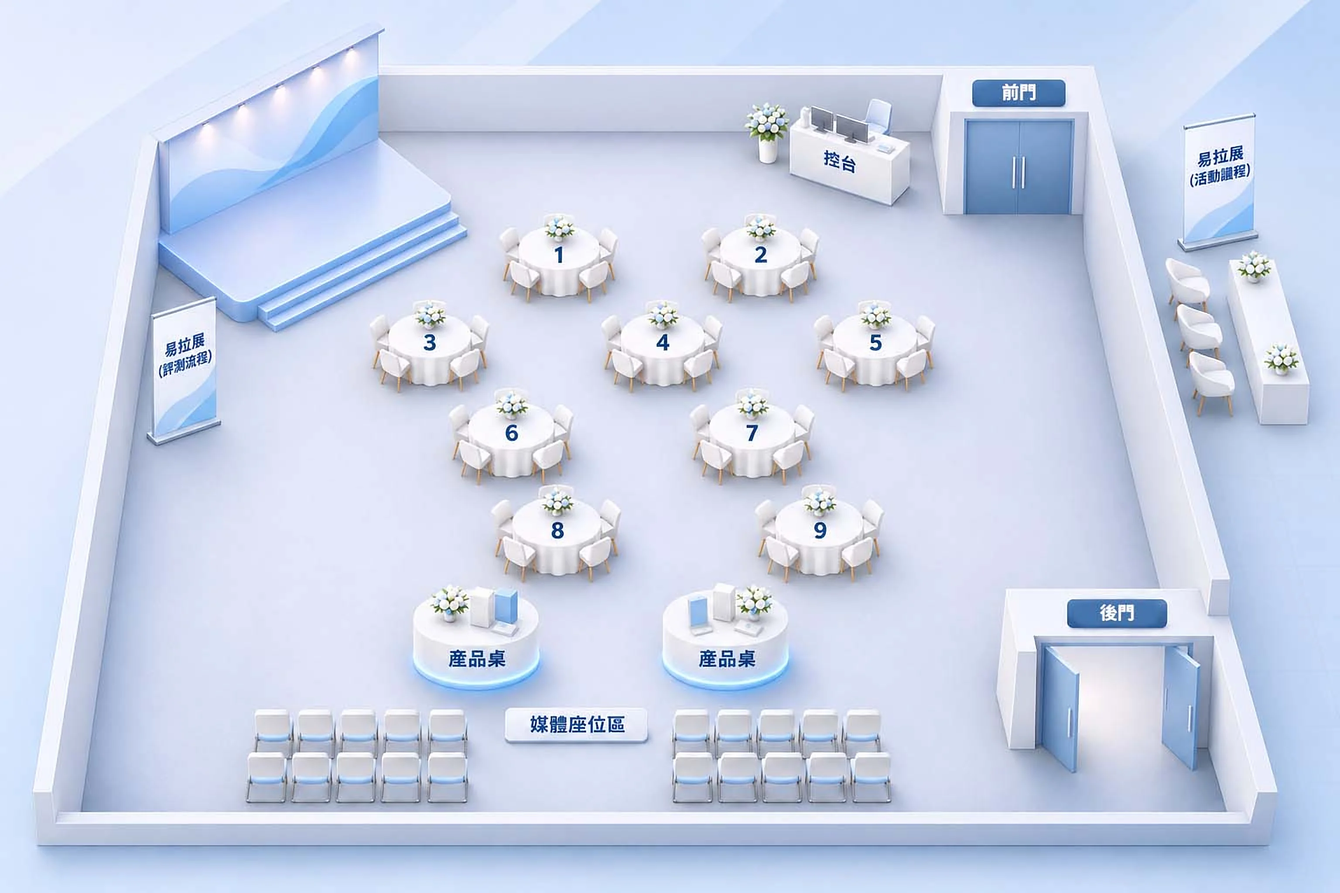
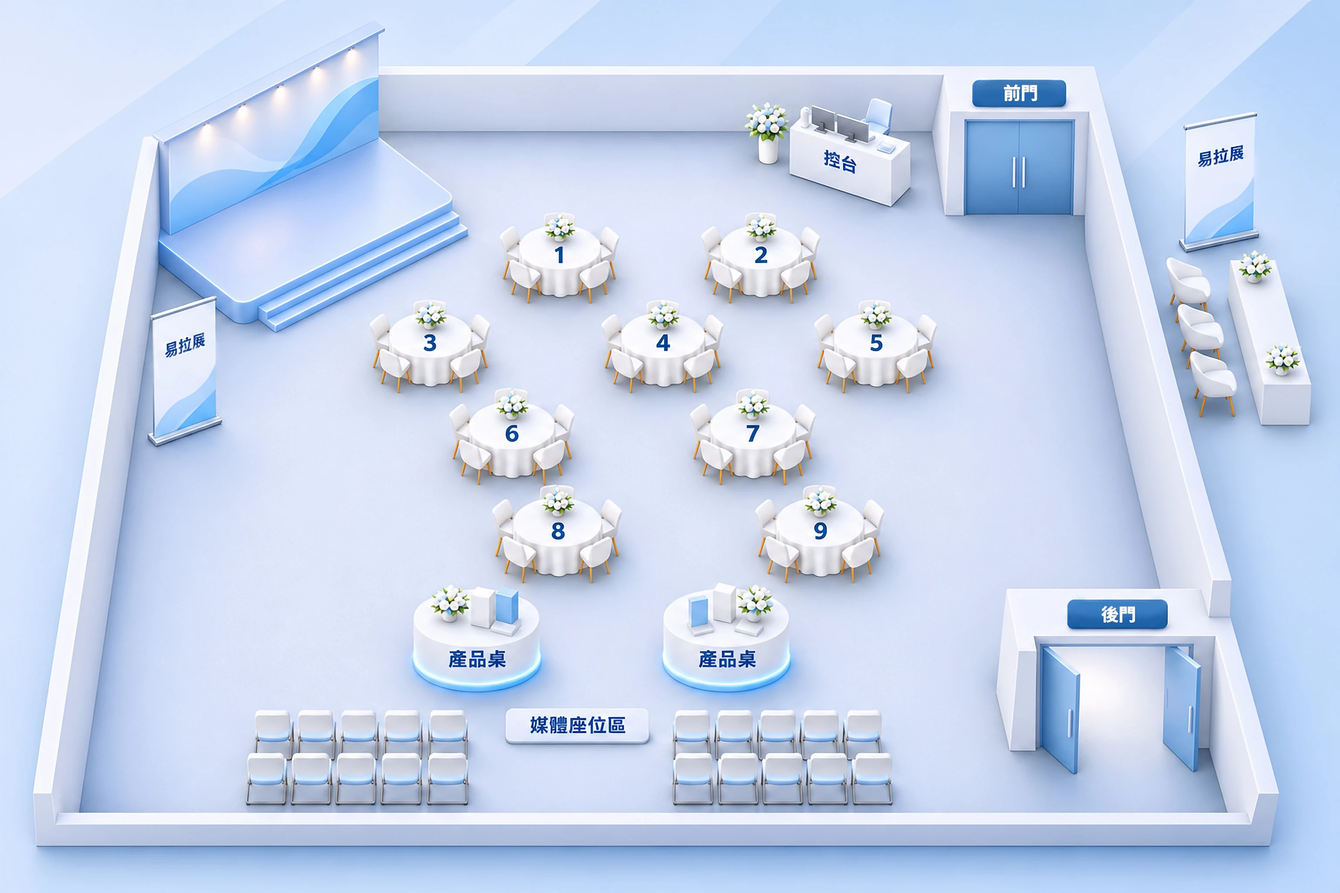
24 記者會：換新版高解析會場平面圖，微調熱點位置
Claude-Session: https://claude.ai/code/session_01GjEy689vh6dg91TD7dTNVD

diff --git a/works/work-24-expo.html b/works/work-24-expo.html
@@ -52,7 +52,7 @@
     </div>
     <div class="cs-cards"><article class="cs-card" data-tone="lime"><h2 class="cs-card__title">What I made<small>我的設計</small></h2><p class="cs-card__text">以「專業守護，全家安心」作為核心視覺概念，透過影像合成將醫師雙手、家庭人物與透明防護球體結合，象徵專業醫療為民眾健康提供守護。整體運用淺藍色調、柔和光暈與環繞式線條，營造純淨、安心且具科技感的視覺氛圍，搭配醫療圖示與認證徽章，強化計畫的專業形象與視覺辨識度。</p><svg class="cs-card__deco" viewBox="0 0 128 128" aria-hidden="true"><polygon points="64.0,2.0 74.2,19.2 90.9,8.1 92.7,28.0 112.5,25.3 105.4,44.0 124.4,50.2 110.0,64.0 124.4,77.8 105.4,84.0 112.5,102.7 92.7,100.0 90.9,119.9 74.2,108.8 64.0,126.0 53.8,108.8 37.1,119.9 35.3,100.0 15.5,102.7 22.6,84.0 3.6,77.8 18.0,64.0 3.6,50.2 22.6,44.0 15.5,25.3 35.3,28.0 37.1,8.1 53.8,19.2"/></svg></article><article class="cs-card" data-tone="pink"><h2 class="cs-card__title">What happened next<small>後續成果</small></h2><p class="cs-card__text">將醫療專業、科學認證與家庭健康等抽象理念轉化為直觀的視覺意象，兼顧現場品牌曝光、活動主題傳遞與多方合作單位的識別需求，建立具專業度與親和力的活動形象。</p><svg class="cs-card__deco" viewBox="0 0 128 128" aria-hidden="true"><polygon points="64.0,2.0 74.2,19.2 90.9,8.1 92.7,28.0 112.5,25.3 105.4,44.0 124.4,50.2 110.0,64.0 124.4,77.8 105.4,84.0 112.5,102.7 92.7,100.0 90.9,119.9 74.2,108.8 64.0,126.0 53.8,108.8 37.1,119.9 35.3,100.0 15.5,102.7 22.6,84.0 3.6,77.8 18.0,64.0 3.6,50.2 22.6,44.0 15.5,25.3 35.3,28.0 37.1,8.1 53.8,19.2"/></svg></article></div>
     <div class="cs-gallery"></div>
-    <section class="cs-sec"><header class="cs-sec__head"><p class="eyebrow">Key visual</p><h2 class="cs-sec__title">Press Backdrop<small>記者會背板</small></h2><p class="cs-sec__lead">以醫師雙手、家庭人物與透明防護球體合成主視覺，傳達「專業守護，全家安心」。</p></header><figure class="bq-fig ex-hero"><button type="button" class="ex-img" data-lb="prhero" aria-label="放大檢視：記者會背板提案"><picture><source srcset="../public/works/work-24-expo/web-backdrop.webp" type="image/webp"><img src="../public/works/work-24-expo/web-backdrop.jpg" width="2400" height="1189" alt="記者會背板提案：醫師雙手捧著透明球體，球內是三代同堂的家庭" loading="lazy" decoding="async"></picture></button><figcaption>✦ 背板提案｜W515 × H255 cm</figcaption></figure></section><section class="cs-sec"><header class="cs-sec__head"><p class="eyebrow">Venue plan</p><h2 class="cs-sec__title">Guest Journey<small>現場動線</small></h2></header><figure class="ob-hot pl-hot"><ul class="pl-legend"><li data-tone="yellow"><span></span>入場</li><li data-tone="cyan"><span></span>會場</li><li data-tone="pink"><span></span>台前合照</li><li data-tone="lime"><span></span>產品區</li></ul><div class="ob-hot__stage"><picture><source srcset="../public/works/work-24-expo/web-plan.webp?v=1123d" type="image/webp"><img src="../public/works/work-24-expo/web-plan.jpg?v=1123d" width="3072" height="2048" alt="記者會會場示意圖：左上舞台與背板，中間 9 張來賓圓桌，下方兩張產品桌與媒體座位區，右側為前後門、門外的易拉展與接待桌" loading="lazy" decoding="async"></picture><div class="ob-hs" style="--x:91%;--y:20%" data-pos="b r" data-tone="yellow"><button type="button" class="ob-hs__dot" aria-expanded="false" aria-describedby="prhs1"><span>1</span><span class="sr-only">易拉展：活動議程</span></button><div class="ob-hs__tip ex-tip" data-tone="yellow" id="prhs1" role="tooltip"><div class="ex-tip__imgs" style="--n:1"><button type="button" class="ex-tip__img" data-lb="prhs1" aria-label="放大檢視：易拉展：活動議程"><picture><source srcset="../public/works/work-24-expo/web-rollup-1.webp" type="image/webp"><img src="../public/works/work-24-expo/web-rollup-1.jpg" width="900" height="2001" alt="易拉展：活動議程" loading="lazy" decoding="async"></picture><span class="ex-tip__zoom" aria-hidden="true"></span></button></div><p class="eyebrow ob-hs__eb">Entrance</p><p class="ob-hs__t">易拉展：活動議程</p><p class="ob-hs__d">立在門外，來賓報到前就能先看到當天流程。</p><p class="ob-hs__s">入場</p></div></div><div class="ob-hs" style="--x:45.5%;--y:35%" data-pos="b" data-tone="cyan"><button type="button" class="ob-hs__dot" aria-expanded="false" aria-describedby="prhs2"><span>2</span><span class="sr-only">來賓桌卡</span></button><div class="ob-hs__tip ex-tip" data-tone="cyan" id="prhs2" role="tooltip"><div class="ex-tip__imgs" style="--n:2"><button type="button" class="ex-tip__img" data-lb="prhs2" aria-label="放大檢視：來賓桌卡"><picture><source srcset="../public/works/work-24-expo/web-guest.webp?v=1123d" type="image/webp"><img src="../public/works/work-24-expo/web-guest.jpg?v=1123d" width="1600" height="1021" alt="來賓桌卡" loading="lazy" decoding="async"></picture><span class="ex-tip__zoom" aria-hidden="true"></span></button><button type="button" class="ex-tip__img" data-lb="prhs2" aria-label="放大檢視：現場照片：來賓桌卡"><picture><source srcset="../public/works/work-24-expo/web-site-9.webp?v=1123d" type="image/webp"><img src="../public/works/work-24-expo/web-site-9.jpg?v=1123d" width="1400" height="933" alt="現場照片：來賓桌卡" loading="lazy" decoding="async"></picture><span class="ex-tip__zoom" aria-hidden="true"></span></button></div><p class="eyebrow ob-hs__eb">Guest Table</p><p class="ob-hs__t">來賓桌卡</p><p class="ob-hs__d">9 張圓桌上的來賓名牌，延續主視覺的雙手與家庭意象。</p><p class="ob-hs__s">會場</p></div></div><div class="ob-hs" style="--x:20%;--y:12%" data-pos="b l" data-tone="cyan"><button type="button" class="ob-hs__dot" aria-expanded="false" aria-describedby="prhs3"><span>3</span><span class="sr-only">記者會背板</span></button><div class="ob-hs__tip ex-tip" data-tone="cyan" id="prhs3" role="tooltip"><div class="ex-tip__imgs" style="--n:2"><button type="button" class="ex-tip__img" data-lb="prhs3" aria-label="放大檢視：記者會背板提案"><picture><source srcset="../public/works/work-24-expo/web-backdrop.webp" type="image/webp"><img src="../public/works/work-24-expo/web-backdrop.jpg" width="2400" height="1189" alt="記者會背板提案" loading="lazy" decoding="async"></picture><span class="ex-tip__zoom" aria-hidden="true"></span></button><button type="button" class="ex-tip__img" data-lb="prhs3" aria-label="放大檢視：現場照片：講者站在背板前發表"><picture><source srcset="../public/works/work-24-expo/web-site-1.webp?v=1123d" type="image/webp"><img src="../public/works/work-24-expo/web-site-1.jpg?v=1123d" width="1400" height="1084" alt="現場照片：講者站在背板前發表" loading="lazy" decoding="async"></picture><span class="ex-tip__zoom" aria-hidden="true"></span></button></div><p class="eyebrow ob-hs__eb">Backdrop</p><p class="ob-hs__t">記者會背板</p><p class="ob-hs__d">以「專業守護，全家安心」為主視覺的背板提案。</p><p class="ob-hs__s">會場｜提案版｜W515 × H255 cm</p></div></div><div class="ob-hs" style="--x:28%;--y:29%" data-pos="b" data-tone="pink"><button type="button" class="ob-hs__dot" aria-expanded="false" aria-describedby="prhs4"><span>4</span><span class="sr-only">拍照用手舉牌</span></button><div class="ob-hs__tip ex-tip" data-tone="pink" id="prhs4" role="tooltip"><div class="ex-tip__imgs" style="--n:3"><button type="button" class="ex-tip__img" data-lb="prhs4" aria-label="放大檢視：手舉牌：醫師專業推薦指標"><picture><source srcset="../public/works/work-24-expo/web-sign-1.webp" type="image/webp"><img src="../public/works/work-24-expo/web-sign-1.png" width="1000" height="572" alt="手舉牌：醫師專業推薦指標" loading="lazy" decoding="async"></picture><span class="ex-tip__zoom" aria-hidden="true"></span></button><button type="button" class="ex-tip__img" data-lb="prhs4" aria-label="放大檢視：手舉牌：醫師推薦健康關鍵"><picture><source srcset="../public/works/work-24-expo/web-sign-11.webp" type="image/webp"><img src="../public/works/work-24-expo/web-sign-11.png" width="1000" height="464" alt="手舉牌：醫師推薦健康關鍵" loading="lazy" decoding="async"></picture><span class="ex-tip__zoom" aria-hidden="true"></span></button><button type="button" class="ex-tip__img" data-lb="prhs4" aria-label="放大檢視：現場照片：台前手舉牌大合照"><picture><source srcset="../public/works/work-24-expo/web-site-10.webp?v=1123d" type="image/webp"><img src="../public/works/work-24-expo/web-site-10.jpg?v=1123d" width="1400" height="496" alt="現場照片：台前手舉牌大合照" loading="lazy" decoding="async"></picture><span class="ex-tip__zoom" aria-hidden="true"></span></button></div><p class="eyebrow ob-hs__eb">Photo Session</p><p class="ob-hs__t">拍照用手舉牌</p><p class="ob-hs__d">台前大合照時，來賓手舉的造型牌，共 11 款。</p><p class="ob-hs__s">台前合照｜11 款</p></div></div><div class="ob-hs" style="--x:35.5%;--y:66%" data-pos="t" data-tone="lime"><button type="button" class="ob-hs__dot" aria-expanded="false" aria-describedby="prhs5"><span>5</span><span class="sr-only">產品桌：桌卡＋三折 DM</span></button><div class="ob-hs__tip ex-tip" data-tone="lime" id="prhs5" role="tooltip"><div class="ex-tip__imgs" style="--n:3"><button type="button" class="ex-tip__img" data-lb="prhs5" aria-label="放大檢視：三折 DM 正面"><picture><source srcset="../public/works/work-24-expo/web-dm-1.webp" type="image/webp"><img src="../public/works/work-24-expo/web-dm-1.jpg" width="2400" height="763" alt="三折 DM 正面" loading="lazy" decoding="async"></picture><span class="ex-tip__zoom" aria-hidden="true"></span></button><button type="button" class="ex-tip__img" data-lb="prhs5" aria-label="放大檢視：三折 DM 背面"><picture><source srcset="../public/works/work-24-expo/web-dm-2.webp" type="image/webp"><img src="../public/works/work-24-expo/web-dm-2.jpg" width="2400" height="765" alt="三折 DM 背面" loading="lazy" decoding="async"></picture><span class="ex-tip__zoom" aria-hidden="true"></span></button><button type="button" class="ex-tip__img" data-lb="prhs5" aria-label="放大檢視：現場照片：產品桌上的桌卡與 DM"><picture><source srcset="../public/works/work-24-expo/web-site-8.webp?v=1123d" type="image/webp"><img src="../public/works/work-24-expo/web-site-8.jpg?v=1123d" width="1400" height="933" alt="現場照片：產品桌上的桌卡與 DM" loading="lazy" decoding="async"></picture><span class="ex-tip__zoom" aria-hidden="true"></span></button></div><p class="eyebrow ob-hs__eb">Product Table</p><p class="ob-hs__t">產品桌：桌卡＋三折 DM</p><p class="ob-hs__d">產品桌上的長者六力系列桌卡，一款產品一張；三折 DM 也放在這裡，讓來賓與媒體帶走。</p><p class="ob-hs__s">產品區｜桌卡 5 款・三折頁</p></div></div><div class="ob-hs" style="--x:14%;--y:41%" data-pos="b l" data-tone="lime"><button type="button" class="ob-hs__dot" aria-expanded="false" aria-describedby="prhs6"><span>6</span><span class="sr-only">易拉展：評測流程</span></button><div class="ob-hs__tip ex-tip" data-tone="lime" id="prhs6" role="tooltip"><div class="ex-tip__imgs" style="--n:2"><button type="button" class="ex-tip__img" data-lb="prhs6" aria-label="放大檢視：易拉展：評測流程"><picture><source srcset="../public/works/work-24-expo/web-rollup-2.webp" type="image/webp"><img src="../public/works/work-24-expo/web-rollup-2.jpg" width="900" height="1999" alt="易拉展：評測流程" loading="lazy" decoding="async"></picture><span class="ex-tip__zoom" aria-hidden="true"></span></button><button type="button" class="ex-tip__img" data-lb="prhs6" aria-label="放大檢視：現場照片：評測流程易拉展"><picture><source srcset="../public/works/work-24-expo/web-site-11.webp?v=1123d" type="image/webp"><img src="../public/works/work-24-expo/web-site-11.jpg?v=1123d" width="1400" height="2100" alt="現場照片：評測流程易拉展" loading="lazy" decoding="async"></picture><span class="ex-tip__zoom" aria-hidden="true"></span></button></div><p class="eyebrow ob-hs__eb">Roll-up</p><p class="ob-hs__t">易拉展：評測流程</p><p class="ob-hs__d">放在產品區旁，說明醫療專家品質評測的流程。</p><p class="ob-hs__s">產品區</p></div></div></div></figure></section><section class="cs-sec"><header class="cs-sec__head"><p class="eyebrow">On site</p><h2 class="cs-sec__title">Press Day<small>現場紀錄</small></h2><p class="cs-sec__lead">記者會當天：背板前的發表、手舉牌大合照、桌卡與 DM，以及媒體採訪。</p></header><figure class="bq-fig ex-hero pr-collage"><button type="button" class="ex-img" data-lb="prsite" aria-label="放大檢視：記者會現場紀錄"><picture><source srcset="../public/works/work-24-expo/web-collage.webp?v=1123d" type="image/webp"><img src="../public/works/work-24-expo/web-collage.jpg?v=1123d" width="1800" height="1818" alt="記者會現場照片拼貼：講者發表、來賓桌卡、DM、手舉牌大合照、產品桌卡、媒體採訪與評測流程易拉展" loading="lazy" decoding="async"></picture></button><figcaption>✦ 記者會現場紀錄</figcaption></figure></section>
+    <section class="cs-sec"><header class="cs-sec__head"><p class="eyebrow">Key visual</p><h2 class="cs-sec__title">Press Backdrop<small>記者會背板</small></h2><p class="cs-sec__lead">以醫師雙手、家庭人物與透明防護球體合成主視覺，傳達「專業守護，全家安心」。</p></header><figure class="bq-fig ex-hero"><button type="button" class="ex-img" data-lb="prhero" aria-label="放大檢視：記者會背板提案"><picture><source srcset="../public/works/work-24-expo/web-backdrop.webp" type="image/webp"><img src="../public/works/work-24-expo/web-backdrop.jpg" width="2400" height="1189" alt="記者會背板提案：醫師雙手捧著透明球體，球內是三代同堂的家庭" loading="lazy" decoding="async"></picture></button><figcaption>✦ 背板提案｜W515 × H255 cm</figcaption></figure></section><section class="cs-sec"><header class="cs-sec__head"><p class="eyebrow">Venue plan</p><h2 class="cs-sec__title">Guest Journey<small>現場動線</small></h2></header><figure class="ob-hot pl-hot"><ul class="pl-legend"><li data-tone="yellow"><span></span>入場</li><li data-tone="cyan"><span></span>會場</li><li data-tone="pink"><span></span>台前合照</li><li data-tone="lime"><span></span>產品區</li></ul><div class="ob-hot__stage"><picture><source srcset="../public/works/work-24-expo/web-plan.webp?v=202611232325" type="image/webp"><img src="../public/works/work-24-expo/web-plan.jpg?v=202611232325" width="3072" height="2048" alt="記者會會場示意圖：左上舞台與背板，中間 9 張來賓圓桌，下方兩張產品桌與媒體座位區，右側為前後門、門外的易拉展與接待桌" loading="lazy" decoding="async"></picture><div class="ob-hs" style="--x:91%;--y:26%" data-pos="b r" data-tone="yellow"><button type="button" class="ob-hs__dot" aria-expanded="false" aria-describedby="prhs1"><span>1</span><span class="sr-only">易拉展：活動議程</span></button><div class="ob-hs__tip ex-tip" data-tone="yellow" id="prhs1" role="tooltip"><div class="ex-tip__imgs" style="--n:1"><button type="button" class="ex-tip__img" data-lb="prhs1" aria-label="放大檢視：易拉展：活動議程"><picture><source srcset="../public/works/work-24-expo/web-rollup-1.webp" type="image/webp"><img src="../public/works/work-24-expo/web-rollup-1.jpg" width="900" height="2001" alt="易拉展：活動議程" loading="lazy" decoding="async"></picture><span class="ex-tip__zoom" aria-hidden="true"></span></button></div><p class="eyebrow ob-hs__eb">Entrance</p><p class="ob-hs__t">易拉展：活動議程</p><p class="ob-hs__d">立在門外，來賓報到前就能先看到當天流程。</p><p class="ob-hs__s">入場</p></div></div><div class="ob-hs" style="--x:46.5%;--y:36%" data-pos="b" data-tone="cyan"><button type="button" class="ob-hs__dot" aria-expanded="false" aria-describedby="prhs2"><span>2</span><span class="sr-only">來賓桌卡</span></button><div class="ob-hs__tip ex-tip" data-tone="cyan" id="prhs2" role="tooltip"><div class="ex-tip__imgs" style="--n:2"><button type="button" class="ex-tip__img" data-lb="prhs2" aria-label="放大檢視：來賓桌卡"><picture><source srcset="../public/works/work-24-expo/web-guest.webp" type="image/webp"><img src="../public/works/work-24-expo/web-guest.jpg" width="1600" height="1021" alt="來賓桌卡" loading="lazy" decoding="async"></picture><span class="ex-tip__zoom" aria-hidden="true"></span></button><button type="button" class="ex-tip__img" data-lb="prhs2" aria-label="放大檢視：現場照片：來賓桌卡"><picture><source srcset="../public/works/work-24-expo/web-site-9.webp" type="image/webp"><img src="../public/works/work-24-expo/web-site-9.jpg" width="1400" height="933" alt="現場照片：來賓桌卡" loading="lazy" decoding="async"></picture><span class="ex-tip__zoom" aria-hidden="true"></span></button></div><p class="eyebrow ob-hs__eb">Guest Table</p><p class="ob-hs__t">來賓桌卡</p><p class="ob-hs__d">9 張圓桌上的來賓名牌，延續主視覺的雙手與家庭意象。</p><p class="ob-hs__s">會場</p></div></div><div class="ob-hs" style="--x:20%;--y:12%" data-pos="b l" data-tone="cyan"><button type="button" class="ob-hs__dot" aria-expanded="false" aria-describedby="prhs3"><span>3</span><span class="sr-only">記者會背板</span></button><div class="ob-hs__tip ex-tip" data-tone="cyan" id="prhs3" role="tooltip"><div class="ex-tip__imgs" style="--n:2"><button type="button" class="ex-tip__img" data-lb="prhs3" aria-label="放大檢視：記者會背板提案"><picture><source srcset="../public/works/work-24-expo/web-backdrop.webp" type="image/webp"><img src="../public/works/work-24-expo/web-backdrop.jpg" width="2400" height="1189" alt="記者會背板提案" loading="lazy" decoding="async"></picture><span class="ex-tip__zoom" aria-hidden="true"></span></button><button type="button" class="ex-tip__img" data-lb="prhs3" aria-label="放大檢視：現場照片：講者站在背板前發表"><picture><source srcset="../public/works/work-24-expo/web-site-1.webp" type="image/webp"><img src="../public/works/work-24-expo/web-site-1.jpg" width="1400" height="1084" alt="現場照片：講者站在背板前發表" loading="lazy" decoding="async"></picture><span class="ex-tip__zoom" aria-hidden="true"></span></button></div><p class="eyebrow ob-hs__eb">Backdrop</p><p class="ob-hs__t">記者會背板</p><p class="ob-hs__d">以「專業守護，全家安心」為主視覺的背板提案。</p><p class="ob-hs__s">會場｜提案版｜W515 × H255 cm</p></div></div><div class="ob-hs" style="--x:29%;--y:31%" data-pos="b" data-tone="pink"><button type="button" class="ob-hs__dot" aria-expanded="false" aria-describedby="prhs4"><span>4</span><span class="sr-only">拍照用手舉牌</span></button><div class="ob-hs__tip ex-tip" data-tone="pink" id="prhs4" role="tooltip"><div class="ex-tip__imgs" style="--n:3"><button type="button" class="ex-tip__img" data-lb="prhs4" aria-label="放大檢視：手舉牌：醫師專業推薦指標"><picture><source srcset="../public/works/work-24-expo/web-sign-1.webp" type="image/webp"><img src="../public/works/work-24-expo/web-sign-1.png" width="1000" height="572" alt="手舉牌：醫師專業推薦指標" loading="lazy" decoding="async"></picture><span class="ex-tip__zoom" aria-hidden="true"></span></button><button type="button" class="ex-tip__img" data-lb="prhs4" aria-label="放大檢視：手舉牌：醫師推薦健康關鍵"><picture><source srcset="../public/works/work-24-expo/web-sign-11.webp" type="image/webp"><img src="../public/works/work-24-expo/web-sign-11.png" width="1000" height="464" alt="手舉牌：醫師推薦健康關鍵" loading="lazy" decoding="async"></picture><span class="ex-tip__zoom" aria-hidden="true"></span></button><button type="button" class="ex-tip__img" data-lb="prhs4" aria-label="放大檢視：現場照片：台前手舉牌大合照"><picture><source srcset="../public/works/work-24-expo/web-site-10.webp" type="image/webp"><img src="../public/works/work-24-expo/web-site-10.jpg" width="1400" height="496" alt="現場照片：台前手舉牌大合照" loading="lazy" decoding="async"></picture><span class="ex-tip__zoom" aria-hidden="true"></span></button></div><p class="eyebrow ob-hs__eb">Photo Session</p><p class="ob-hs__t">拍照用手舉牌</p><p class="ob-hs__d">台前大合照時，來賓手舉的造型牌，共 11 款。</p><p class="ob-hs__s">台前合照｜11 款</p></div></div><div class="ob-hs" style="--x:35.5%;--y:67%" data-pos="t" data-tone="lime"><button type="button" class="ob-hs__dot" aria-expanded="false" aria-describedby="prhs5"><span>5</span><span class="sr-only">產品桌：桌卡＋三折 DM</span></button><div class="ob-hs__tip ex-tip" data-tone="lime" id="prhs5" role="tooltip"><div class="ex-tip__imgs" style="--n:3"><button type="button" class="ex-tip__img" data-lb="prhs5" aria-label="放大檢視：三折 DM 正面"><picture><source srcset="../public/works/work-24-expo/web-dm-1.webp" type="image/webp"><img src="../public/works/work-24-expo/web-dm-1.jpg" width="2400" height="763" alt="三折 DM 正面" loading="lazy" decoding="async"></picture><span class="ex-tip__zoom" aria-hidden="true"></span></button><button type="button" class="ex-tip__img" data-lb="prhs5" aria-label="放大檢視：三折 DM 背面"><picture><source srcset="../public/works/work-24-expo/web-dm-2.webp" type="image/webp"><img src="../public/works/work-24-expo/web-dm-2.jpg" width="2400" height="765" alt="三折 DM 背面" loading="lazy" decoding="async"></picture><span class="ex-tip__zoom" aria-hidden="true"></span></button><button type="button" class="ex-tip__img" data-lb="prhs5" aria-label="放大檢視：現場照片：產品桌上的桌卡與 DM"><picture><source srcset="../public/works/work-24-expo/web-site-8.webp" type="image/webp"><img src="../public/works/work-24-expo/web-site-8.jpg" width="1400" height="933" alt="現場照片：產品桌上的桌卡與 DM" loading="lazy" decoding="async"></picture><span class="ex-tip__zoom" aria-hidden="true"></span></button></div><p class="eyebrow ob-hs__eb">Product Table</p><p class="ob-hs__t">產品桌：桌卡＋三折 DM</p><p class="ob-hs__d">產品桌上的長者六力系列桌卡，一款產品一張；三折 DM 也放在這裡，讓來賓與媒體帶走。</p><p class="ob-hs__s">產品區｜桌卡 5 款・三折頁</p></div></div><div class="ob-hs" style="--x:14%;--y:46%" data-pos="b l" data-tone="lime"><button type="button" class="ob-hs__dot" aria-expanded="false" aria-describedby="prhs6"><span>6</span><span class="sr-only">易拉展：評測流程</span></button><div class="ob-hs__tip ex-tip" data-tone="lime" id="prhs6" role="tooltip"><div class="ex-tip__imgs" style="--n:2"><button type="button" class="ex-tip__img" data-lb="prhs6" aria-label="放大檢視：易拉展：評測流程"><picture><source srcset="../public/works/work-24-expo/web-rollup-2.webp" type="image/webp"><img src="../public/works/work-24-expo/web-rollup-2.jpg" width="900" height="1999" alt="易拉展：評測流程" loading="lazy" decoding="async"></picture><span class="ex-tip__zoom" aria-hidden="true"></span></button><button type="button" class="ex-tip__img" data-lb="prhs6" aria-label="放大檢視：現場照片：評測流程易拉展"><picture><source srcset="../public/works/work-24-expo/web-site-11.webp" type="image/webp"><img src="../public/works/work-24-expo/web-site-11.jpg" width="1400" height="2100" alt="現場照片：評測流程易拉展" loading="lazy" decoding="async"></picture><span class="ex-tip__zoom" aria-hidden="true"></span></button></div><p class="eyebrow ob-hs__eb">Roll-up</p><p class="ob-hs__t">易拉展：評測流程</p><p class="ob-hs__d">放在產品區旁，說明醫療專家品質評測的流程。</p><p class="ob-hs__s">產品區</p></div></div></div></figure></section><section class="cs-sec"><header class="cs-sec__head"><p class="eyebrow">On site</p><h2 class="cs-sec__title">Press Day<small>現場紀錄</small></h2><p class="cs-sec__lead">記者會當天：背板前的發表、手舉牌大合照、桌卡與 DM，以及媒體採訪。</p></header><figure class="bq-fig ex-hero pr-collage"><button type="button" class="ex-img" data-lb="prsite" aria-label="放大檢視：記者會現場紀錄"><picture><source srcset="../public/works/work-24-expo/web-collage.webp" type="image/webp"><img src="../public/works/work-24-expo/web-collage.jpg" width="1800" height="1818" alt="記者會現場照片拼貼：講者發表、來賓桌卡、DM、手舉牌大合照、產品桌卡、媒體採訪與評測流程易拉展" loading="lazy" decoding="async"></picture></button><figcaption>✦ 記者會現場紀錄</figcaption></figure></section>
   </div>
 </section>
 

diff --git a/tools/case_extra.py b/tools/case_extra.py
@@ -593,12 +593,12 @@ def press():
   V=(20,80,2170,1370)
   def pos(x,y):
     X,Y=y-100,1600-x;return f'{(X-V[0])/V[2]*100:.1f}%',f'{(Y-V[1])/V[3]*100:.1f}%'
-  hs=[(('91%','20%'),'b r','yellow','Entrance','易拉展：活動議程','立在門外，來賓報到前就能先看到當天流程。','入場',[('rollup-1','易拉展：活動議程')]),
-      (('45.5%','35%'),'b','cyan','Guest Table','來賓桌卡','9 張圓桌上的來賓名牌，延續主視覺的雙手與家庭意象。','會場',[('guest','來賓桌卡'),('site-9','現場照片：來賓桌卡')]),
+  hs=[(('91%','26%'),'b r','yellow','Entrance','易拉展：活動議程','立在門外，來賓報到前就能先看到當天流程。','入場',[('rollup-1','易拉展：活動議程')]),
+      (('46.5%','36%'),'b','cyan','Guest Table','來賓桌卡','9 張圓桌上的來賓名牌，延續主視覺的雙手與家庭意象。','會場',[('guest','來賓桌卡'),('site-9','現場照片：來賓桌卡')]),
       (('20%','12%'),'b l','cyan','Backdrop','記者會背板','以「專業守護，全家安心」為主視覺的背板提案。','會場｜提案版｜W515 × H255 cm',[('backdrop','記者會背板提案'),('site-1','現場照片：講者站在背板前發表')]),
-      (('28%','29%'),'b','pink','Photo Session','拍照用手舉牌','台前大合照時，來賓手舉的造型牌，共 11 款。','台前合照｜11 款',[('sign-1','手舉牌：醫師專業推薦指標'),('sign-11','手舉牌：醫師推薦健康關鍵'),('site-10','現場照片：台前手舉牌大合照')]),
-      (('35.5%','66%'),'t','lime','Product Table','產品桌：桌卡＋三折 DM','產品桌上的長者六力系列桌卡，一款產品一張；三折 DM 也放在這裡，讓來賓與媒體帶走。','產品區｜桌卡 5 款・三折頁',[('dm-1','三折 DM 正面'),('dm-2','三折 DM 背面'),('site-8','現場照片：產品桌上的桌卡與 DM')]),
-      (('14%','41%'),'b l','lime','Roll-up','易拉展：評測流程','放在產品區旁，說明醫療專家品質評測的流程。','產品區',[('rollup-2','易拉展：評測流程'),('site-11','現場照片：評測流程易拉展')])]
+      (('29%','31%'),'b','pink','Photo Session','拍照用手舉牌','台前大合照時，來賓手舉的造型牌，共 11 款。','台前合照｜11 款',[('sign-1','手舉牌：醫師專業推薦指標'),('sign-11','手舉牌：醫師推薦健康關鍵'),('site-10','現場照片：台前手舉牌大合照')]),
+      (('35.5%','67%'),'t','lime','Product Table','產品桌：桌卡＋三折 DM','產品桌上的長者六力系列桌卡，一款產品一張；三折 DM 也放在這裡，讓來賓與媒體帶走。','產品區｜桌卡 5 款・三折頁',[('dm-1','三折 DM 正面'),('dm-2','三折 DM 背面'),('site-8','現場照片：產品桌上的桌卡與 DM')]),
+      (('14%','46%'),'b l','lime','Roll-up','易拉展：評測流程','放在產品區旁，說明醫療專家品質評測的流程。','產品區',[('rollup-2','易拉展：評測流程'),('site-11','現場照片：評測流程易拉展')])]
   spots=''
   for i,((X,Y),p_,tone,eb,t,d,sp,items) in enumerate(hs,1):
     spots+=(f'<div class="ob-hs" style="--x:{X};--y:{Y}" data-pos="{p_}" data-tone="{tone}"><button type="button" class="ob-hs__dot" aria-expanded="false" aria-describedby="prhs{i}"><span>{i}</span><span class="sr-only">{t}</span></button>'
